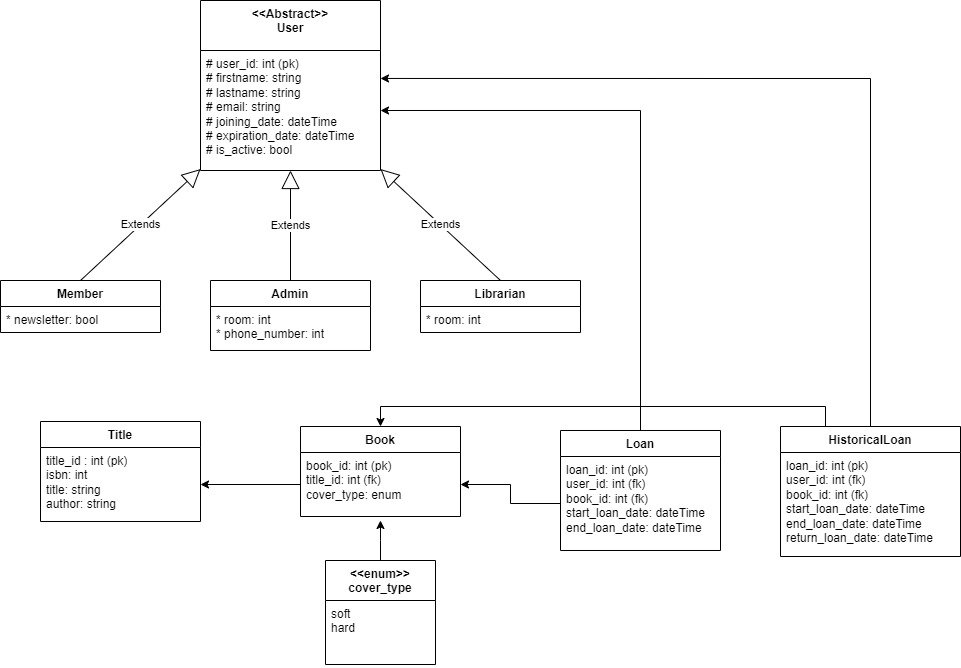
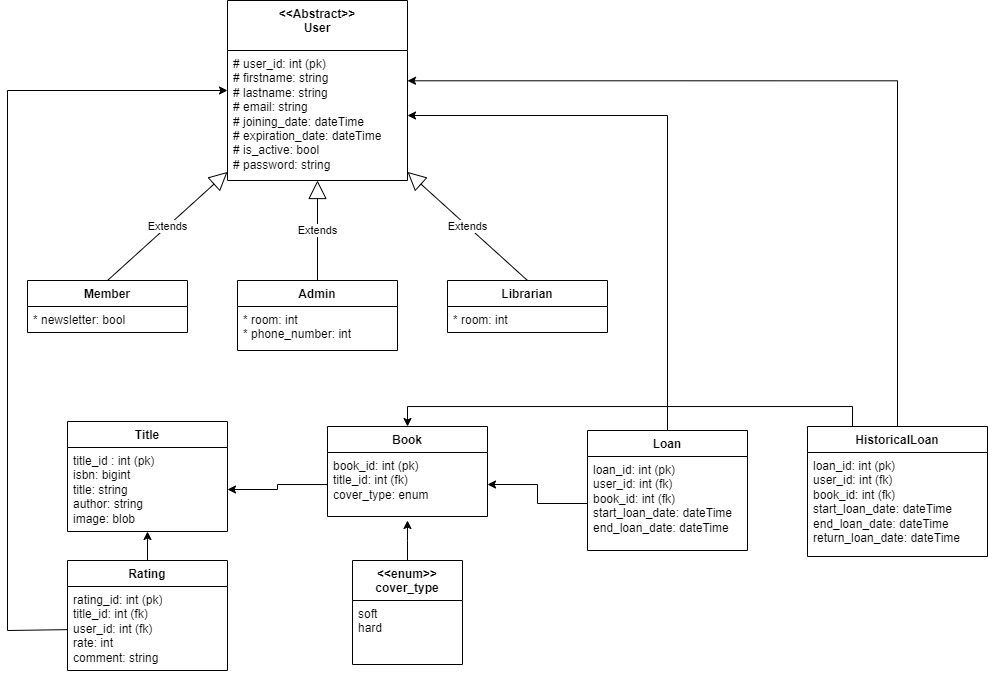
Add: password to user, validator for password. Update build.gradle to allow secure password hashing in MemberService. Update schema.jpg

diff --git a/src/main/java/pl/edu/agh/service/MemberService.java b/src/main/java/pl/edu/agh/service/MemberService.java
@@ -5,6 +5,7 @@ import org.springframework.stereotype.Service;
 import pl.edu.agh.model.users.Member;
 import pl.edu.agh.repository.users.MemberRepository;
 import pl.edu.agh.validator.UserValidator;
+import org.springframework.security.crypto.bcrypt.BCryptPasswordEncoder;
 
 @Service
 public class MemberService {
@@ -15,7 +16,7 @@ public class MemberService {
         this.memberRepository = memberRepository;
     }
 
-    public String addUser(String firstName, String lastName, String email) {
+    public String addUser(String firstName, String lastName, String email, String password) {
         if (!UserValidator.isFirstNameValid(firstName)) {
             return "Niepoprawne imie";
         }
@@ -28,7 +29,14 @@ public class MemberService {
             return "Niepoprawny mail";
         }
 
-        Member member = new Member(firstName, lastName, email, false);
+        if (!UserValidator.isPasswordStrong(password)) {
+            return "Slabe haslo";
+        }
+
+        BCryptPasswordEncoder passwordEncoder = new BCryptPasswordEncoder();
+        String hashedPassword = passwordEncoder.encode(password);
+
+        Member member = new Member(firstName, lastName, email, false, hashedPassword);
         try {
             memberRepository.save(member);
             return "Uzytkownik zostal dodany";

diff --git a/src/main/java/pl/edu/agh/model/users/User.java b/src/main/java/pl/edu/agh/model/users/User.java
@@ -19,14 +19,17 @@ public abstract class User {
     private Date expirationDate;
     private boolean isActive;
 
+    private String password;
+
     public User() {}
-    public User(String firstName, String lastName, String email) {
+    public User(String firstName, String lastName, String email, String password) {
         this.firstName = firstName;
         this.lastName = lastName;
         this.email = email;
         this.joinDate = new Date();
         this.expirationDate = null;
         this.isActive = true;
+        this.password = password;
     }
 
     public int getUserId() {
@@ -55,5 +58,9 @@ public abstract class User {
 
     public boolean isActive() {
         return isActive;
+    }
+
+    public String getPassword() {
+        return password;
     }
 }

diff --git a/src/main/java/pl/edu/agh/validator/UserValidator.java b/src/main/java/pl/edu/agh/validator/UserValidator.java
@@ -20,5 +20,14 @@ public class UserValidator {
         String lastNameRegex = "^[A-Z][a-zA-Z\\-']{1,29}$";
         return checkPattern(mail, lastNameRegex);
     }
+    public static boolean isPasswordStrong(String password) {
+        String passwordRegex = "^(?=.*[0-9])(?=.*[a-z])(?=.*[A-Z])(?=.*[@#$%^&+=])(?=\\S+$).{8,}$";
+        return checkPattern(password, passwordRegex);
+    }
+    // Password contains at least 8 characters.
+    // Password contains at least one digit.
+    // Password contains at least one upper case alphabet.
+    // Password contains at least one lower case alphabet.
+    // Password contains at least one special character.
 
 }

diff --git a/src/main/java/pl/edu/agh/controller/AddUserController.java b/src/main/java/pl/edu/agh/controller/AddUserController.java
@@ -28,6 +28,10 @@ public class AddUserController {
 
     @FXML
     private TextField mailField;
+
+    @FXML
+    private TextField passwordField;
+
     @FXML
     private Label resultLabel;
 
@@ -70,8 +74,9 @@ public class AddUserController {
         String firstName = firstNameField.getText();
         String lastName = lastNameField.getText();
         String email = mailField.getText();
+        String password = passwordField.getText();
 
-        String result = this.memberService.addUser(firstName, lastName, email);
+        String result = this.memberService.addUser(firstName, lastName, email, password);
         showResult(result);
     }
 

diff --git a/src/main/java/pl/edu/agh/validator/BookValidator.java b/src/main/java/pl/edu/agh/validator/BookValidator.java
@@ -9,11 +9,11 @@ public class BookValidator {
         return pattern.matcher(word).matches();
     }
     public static boolean isTitleValid(String title) {
-        String titleRegex = "^[A-Z][a-zA-Z0-9\\-']{1,40}$";
+        String titleRegex = "^[A-Z][a-zA-Z0-9\\- ']{1,40}$";
         return checkPattern(title, titleRegex);
     }
     public static boolean isAuthorValid(String author) {
-        String authorRegex = "^[A-Z][a-zA-Z\\- ']{1,40}$";
+        String authorRegex = "^[A-Z][a-zA-Z\\- .']{1,40}$";
         return checkPattern(author, authorRegex);
     }
     public static boolean isIsbnValid(String isbn) {

diff --git a/src/main/java/pl/edu/agh/controller/AddBookController.java b/src/main/java/pl/edu/agh/controller/AddBookController.java
@@ -16,7 +16,6 @@ import org.springframework.context.ApplicationContext;
 import org.springframework.stereotype.Component;
 import pl.edu.agh.service.BookService;
 
-import java.awt.*;
 import java.io.File;
 import java.io.FileInputStream;
 import java.io.IOException;
@@ -140,7 +139,7 @@ public class AddBookController {
     }
 
     private void showResult(String labelText) {
-        if ("Książka została dodana".equals(labelText)) {
+        if ("Ksiazka zostala dodana".equals(labelText)) {
             resultLabel.setStyle("-fx-text-fill: green;");
 
             // clear fields if succesfully added

diff --git a/src/main/java/pl/edu/agh/controller/LoginController.java b/src/main/java/pl/edu/agh/controller/LoginController.java
@@ -48,6 +48,10 @@ public class LoginController implements ApplicationListener<StageReadyEvent> {
     public void handleLoginClickAction() {
         // tutaj cala logika zwiazana z logowaniem
 
+        // Sprawdzenie czy podane hasło pasuje do zahaszowanego
+//        BCryptPasswordEncoder passwordEncoder = new BCryptPasswordEncoder();
+//        boolean matches = passwordEncoder.matches(password, hashedPassword);
+
         MainController mainController = context.getBean(MainController.class);
         mainController.setPrimaryStage(primaryStage);
         mainController.loadView();

diff --git a/src/main/java/pl/edu/agh/model/users/Member.java b/src/main/java/pl/edu/agh/model/users/Member.java
@@ -19,8 +19,8 @@ public class Member extends User {
     @OneToMany(cascade = CascadeType.ALL, fetch = FetchType.LAZY, mappedBy = "member")
     private List<HistoricalLoan> historicalLoans;
 
-    public Member(String firstName, String lastName, String email, Boolean newsLetter) {
-        super(firstName, lastName, email);
+    public Member(String firstName, String lastName, String email, Boolean newsLetter, String password) {
+        super(firstName, lastName, email, password);
         this.newsLetter = newsLetter;
         this.banned = false;
     }

diff --git a/src/main/java/pl/edu/agh/model/users/Admin.java b/src/main/java/pl/edu/agh/model/users/Admin.java
@@ -11,8 +11,8 @@ public class Admin extends User {
     private int room;
     private String phoneNumber;
 
-    public Admin(String firstName, String lastName, String email, String phoneNumber, int room) {
-        super(firstName, lastName, email);
+    public Admin(String firstName, String lastName, String email, String phoneNumber, int room, String password) {
+        super(firstName, lastName, email, password);
         this.phoneNumber = phoneNumber;
         this.room = room;
     }

diff --git a/src/main/java/pl/edu/agh/model/users/Librarian.java b/src/main/java/pl/edu/agh/model/users/Librarian.java
@@ -10,8 +10,8 @@ public class Librarian extends User {
 
     private int room;
 
-    public Librarian(String firstName, String lastName, String email, int room) {
-        super(firstName, lastName, email);
+    public Librarian(String firstName, String lastName, String email, int room, String password) {
+        super(firstName, lastName, email, password);
         this.room = room;
     }
 
